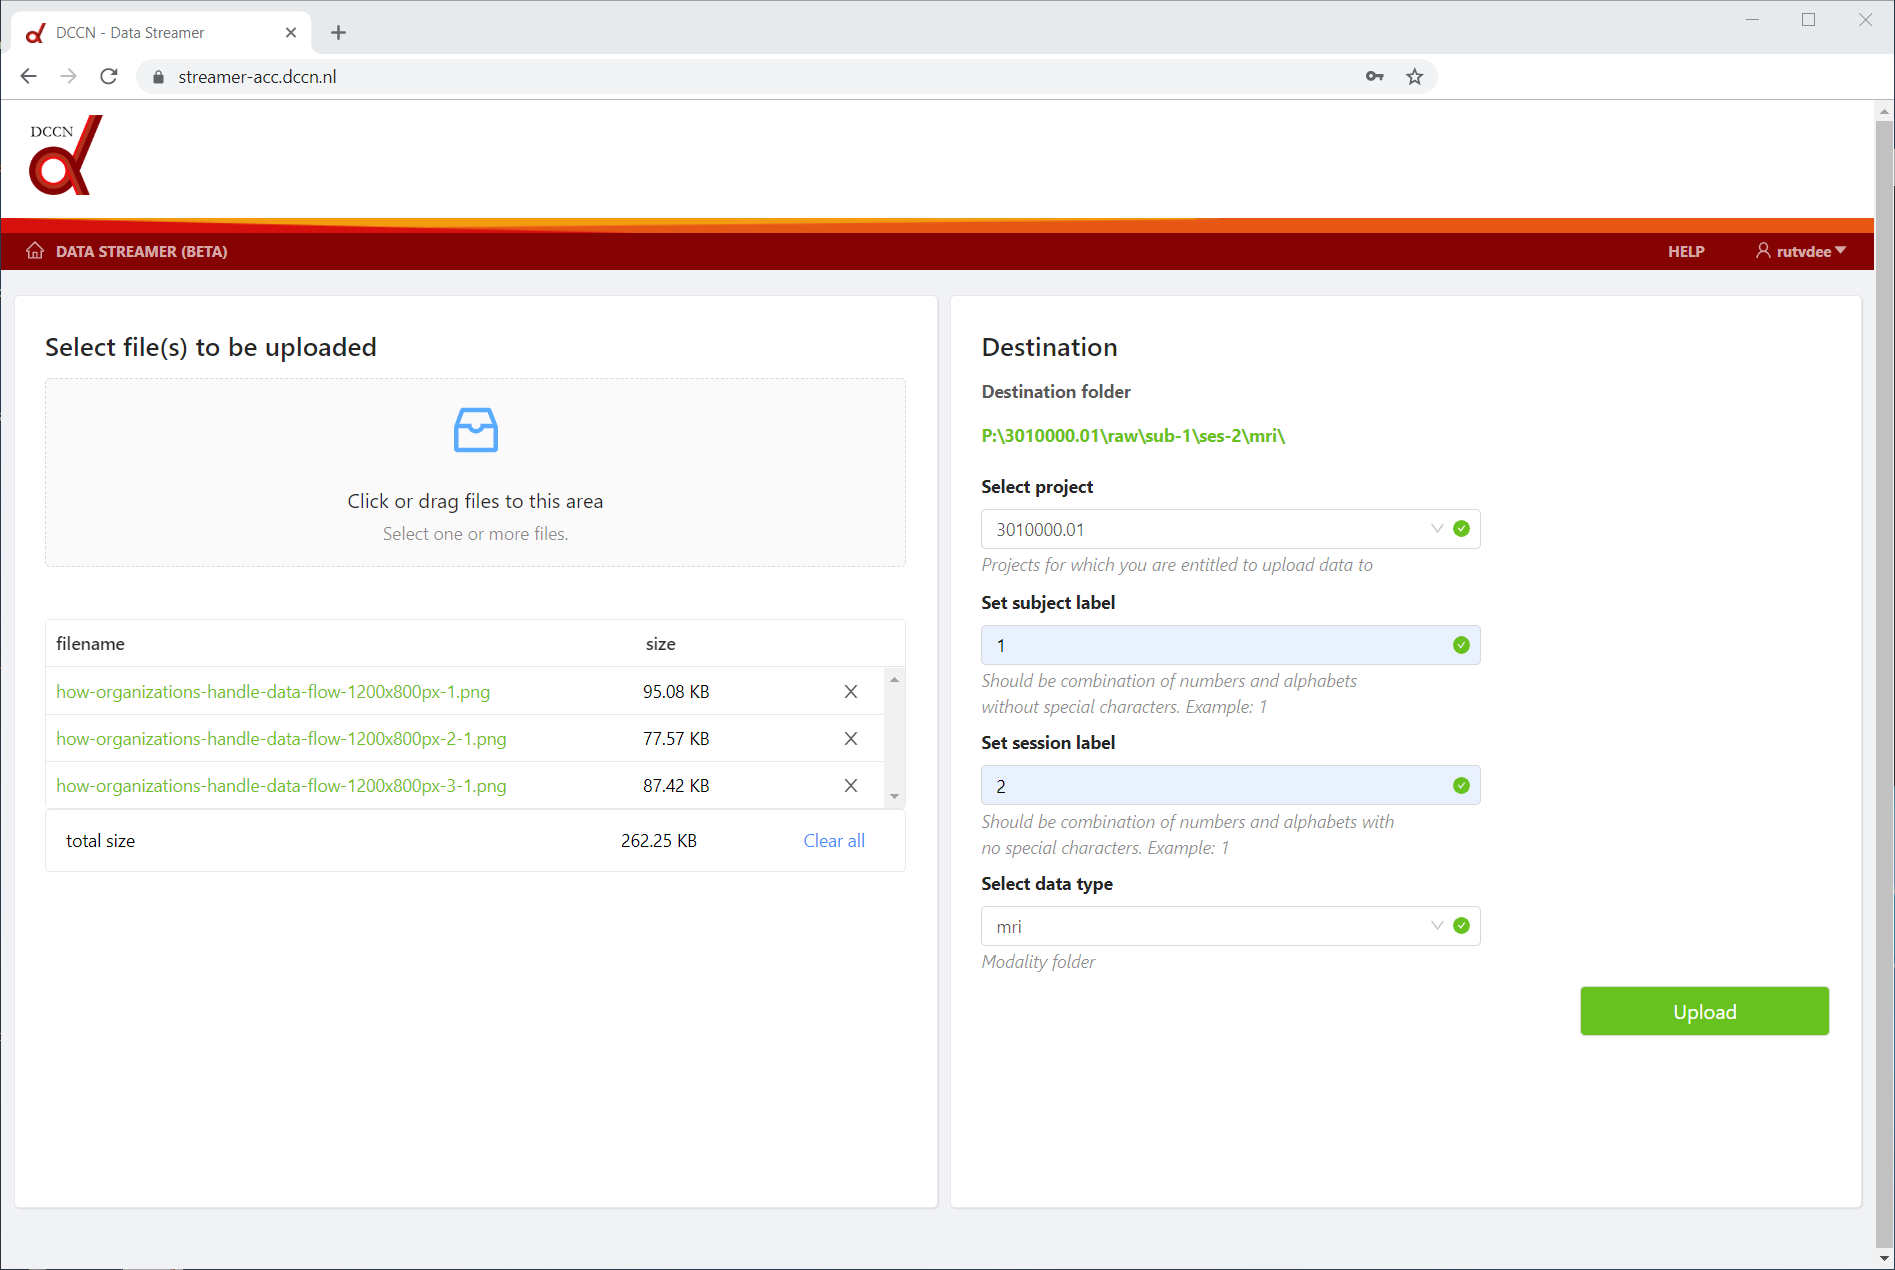
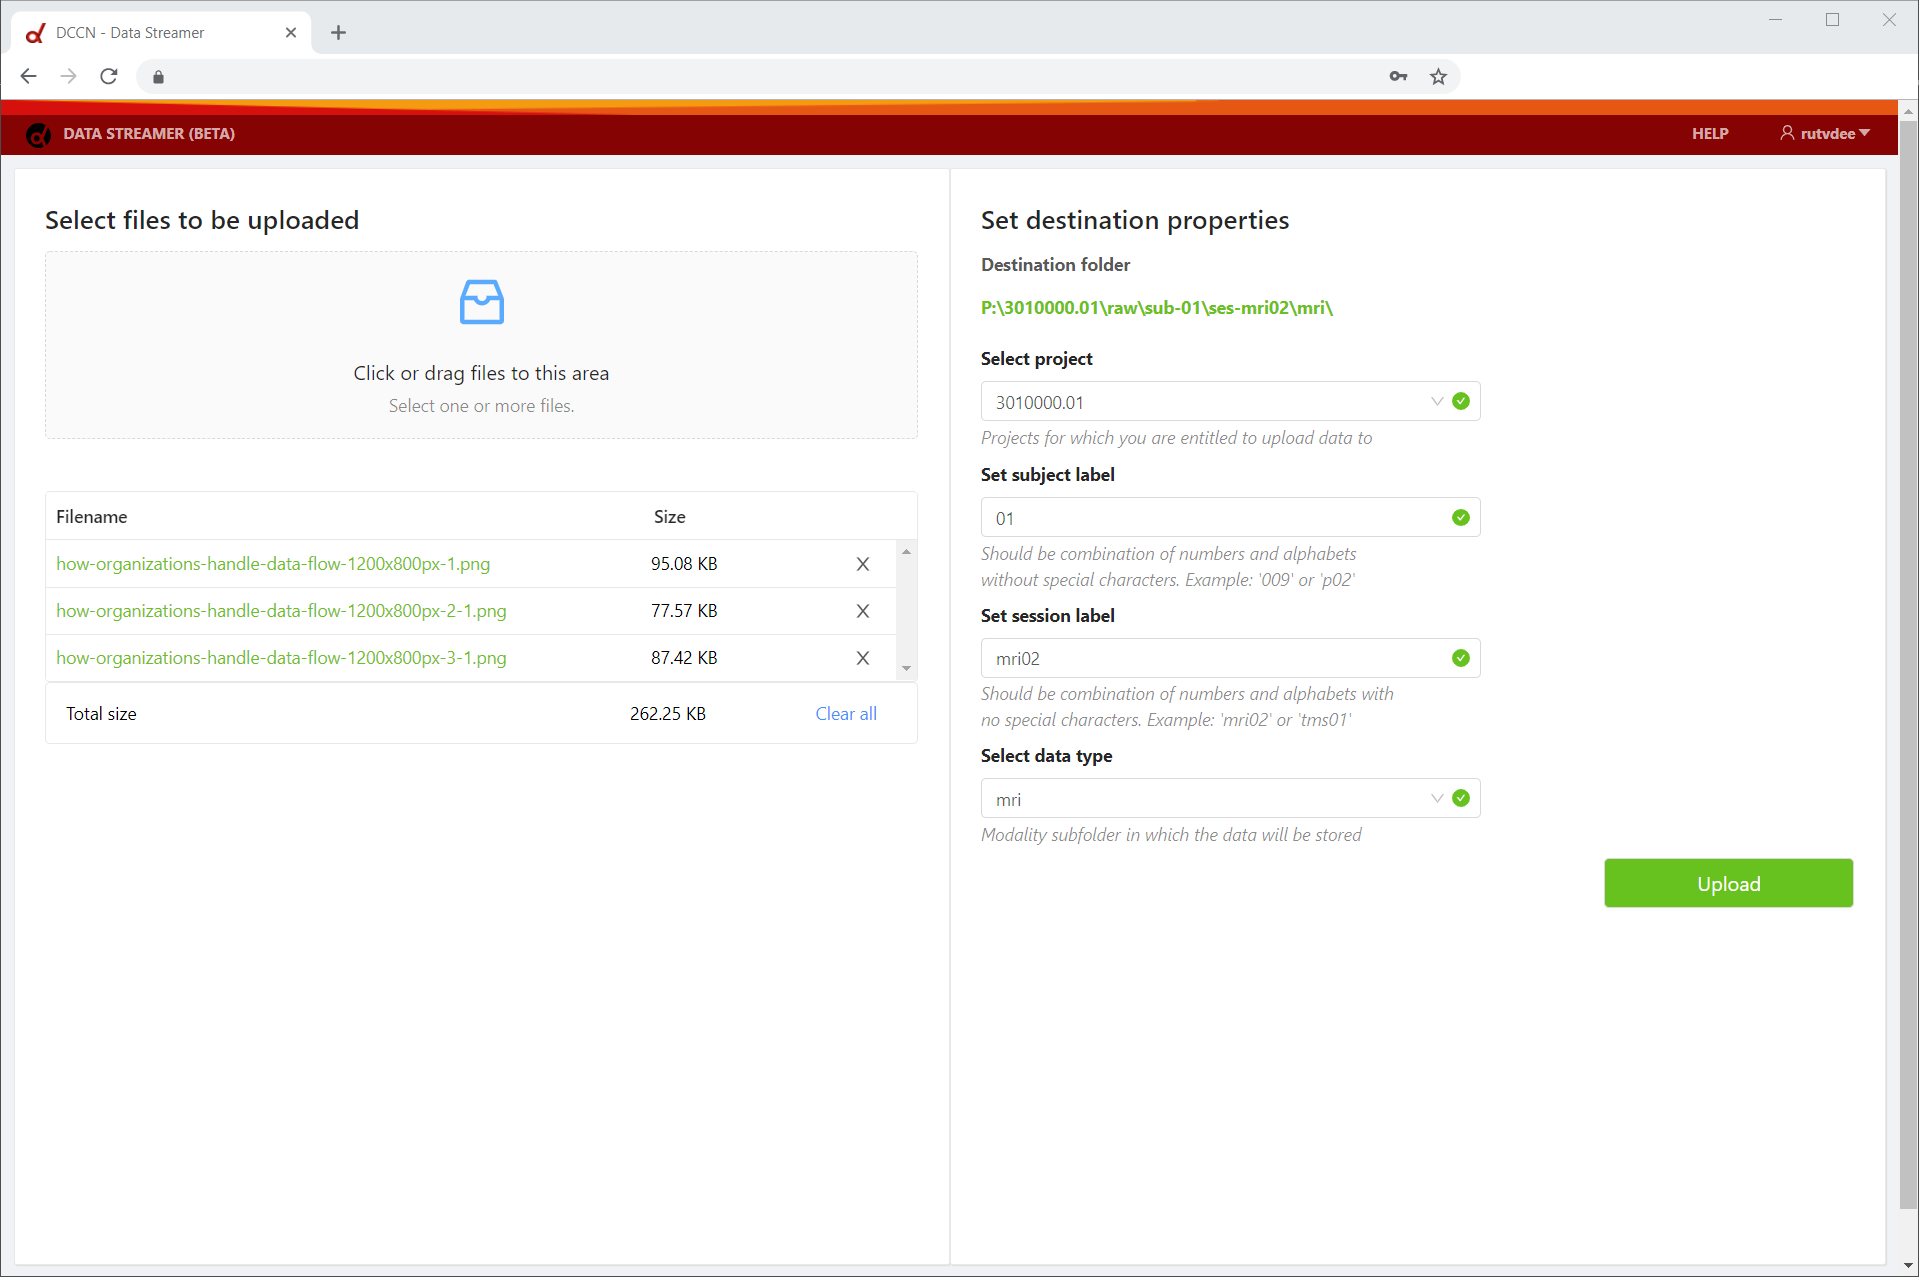
Add hader to login page; some textual improvements; add margin between main cards in uploader

diff --git a/streamer-ui/client/src/components/Login/Login.tsx b/streamer-ui/client/src/components/Login/Login.tsx
@@ -19,6 +19,8 @@ import { fetchIpAddress } from "./fetch";
 
 import { AuthContext } from "../Auth/AuthContext";
 
+import HeaderLogin from "../Header/HeaderLogin";
+
 import "../../App.less";
 import logoDCCN from "../../assets/dccn-logo.png";
 
@@ -169,72 +171,75 @@ const LoginForm: React.FC<FormComponentProps> = ({ form }) => {
             }
             {
                 !loggingIn && !hasSubmitted && !isAuthenticated &&
-                <Content className="Login">
-                    <Row type="flex" justify="center" align="middle" style={{ width: "100%" }}>
-                        <Col span={2}>
-                            {isFetchingIpAddress &&
-                                <Spin indicator={antIcon} />
-                            }
-                        </Col>
-                        <Col span={20}>
-                            <Card className="LoginCard">
-                                <div style={{ display: "flex", justifyContent: "center", margin: "0px 0px 20px 0px" }}>
-                                    <img alt="Donders Institute" src={logoDCCN} height={64} />
-                                </div>
-                                <h2 style={{ display: "flex", justifyContent: "center", margin: "0px 0px 10px 0px" }}>
-                                    DCCN Data Streamer (BETA)
-                                </h2>
-                                <h1 style={{ display: "flex", justifyContent: "center", margin: "0px 0px 20px 0px" }}>
-                                    Please login
-                                </h1>
-                                <div style={{ fontSize: "small", margin: "0px 0px 0px 0px" }}>
-                                    Enter your DCCN credentials
-                                </div>
-                                <Form className="login-form" onSubmit={handleSubmit} style={{ margin: "0px 0px 0px 0px" }}>
-                                    <Form.Item style={{ margin: "0px 0px 0px 0px" }}>
-                                        {getFieldDecorator("username", {
-                                            rules: [{ required: true, message: "Please input your DCCN username" }]
-                                        })(
-                                            <Input
-                                                prefix={<Icon type="user" style={{ color: "rgba(0,0,0,.25)" }} />}
-                                                placeholder="User name"
-                                                onChange={handleUsernameChange}
-                                            />,
-                                        )}
-                                    </Form.Item>
-                                    <Form.Item style={{ margin: "0px 0px 10px 0px" }}>
-                                        {getFieldDecorator("password", {
-                                            rules: [{ required: true, message: "Please input your password" }]
-                                        })(
-                                            <Input
-                                                prefix={<Icon type="lock" style={{ color: "rgba(0,0,0,.25)" }} />}
-                                                type="password"
-                                                placeholder="Password"
-                                                onChange={handlePasswordChange}
-                                            />,
-                                        )}
-                                    </Form.Item>
-                                    <Form.Item style={{ margin: "0px 0px 10px 0px" }}>
-                                        <Button className="login-form-button" type="primary" htmlType="submit">
-                                            Log in
-                                        </Button>
-                                    </Form.Item>
-                                    <div style={{ display: "flex", justifyContent: "center", margin: "0px 0px 0px 0px" }}>
-                                        <Tooltip title={<div
-                                        ><p>This is the login page for the data streamer. Please login with your DCCN credentials.</p>
-                                            <p>The purpose of the data streamer is to upload files to the DCCN project storage.
-                                                The source files are files from your experiments on this computer.
-                                                The destination is the correct folder on the DCCN project storage.</p>
-                                        </div>}>
-                                            <Icon type="question-circle" />
-                                        </Tooltip>
+                <Content>
+                    <HeaderLogin />
+                    <Content className="Login">
+                        <Row type="flex" justify="center" align="middle" style={{ width: "100%" }}>
+                            <Col span={2}>
+                                {isFetchingIpAddress &&
+                                    <Spin indicator={antIcon} />
+                                }
+                            </Col>
+                            <Col span={20}>
+                                <Card className="LoginCard">
+                                    <div style={{ display: "flex", justifyContent: "center", margin: "0px 0px 20px 0px" }}>
+                                        <img alt="Donders Institute" src={logoDCCN} height={64} />
                                     </div>
-                                </Form>
-                            </Card>
-                        </Col>
-                        <Col span={2}>
-                        </Col>
-                    </Row>
+                                    <h2 style={{ display: "flex", justifyContent: "center", margin: "0px 0px 10px 0px" }}>
+                                        DCCN Data Streamer (BETA)
+                                </h2>
+                                    <h1 style={{ display: "flex", justifyContent: "center", margin: "0px 0px 20px 0px" }}>
+                                        Please login
+                                </h1>
+                                    <div style={{ fontSize: "small", margin: "0px 0px 0px 0px" }}>
+                                        Enter your DCCN credentials
+                                </div>
+                                    <Form className="login-form" onSubmit={handleSubmit} style={{ margin: "0px 0px 0px 0px" }}>
+                                        <Form.Item style={{ margin: "0px 0px 0px 0px" }}>
+                                            {getFieldDecorator("username", {
+                                                rules: [{ required: true, message: "Please input your DCCN username" }]
+                                            })(
+                                                <Input
+                                                    prefix={<Icon type="user" style={{ color: "rgba(0,0,0,.25)" }} />}
+                                                    placeholder="User name"
+                                                    onChange={handleUsernameChange}
+                                                />,
+                                            )}
+                                        </Form.Item>
+                                        <Form.Item style={{ margin: "0px 0px 10px 0px" }}>
+                                            {getFieldDecorator("password", {
+                                                rules: [{ required: true, message: "Please input your password" }]
+                                            })(
+                                                <Input
+                                                    prefix={<Icon type="lock" style={{ color: "rgba(0,0,0,.25)" }} />}
+                                                    type="password"
+                                                    placeholder="Password"
+                                                    onChange={handlePasswordChange}
+                                                />,
+                                            )}
+                                        </Form.Item>
+                                        <Form.Item style={{ margin: "0px 0px 10px 0px" }}>
+                                            <Button className="login-form-button" type="primary" htmlType="submit">
+                                                Log in
+                                        </Button>
+                                        </Form.Item>
+                                        <div style={{ display: "flex", justifyContent: "center", margin: "0px 0px 0px 0px" }}>
+                                            <Tooltip title={<div
+                                            ><p>This is the login page for the data streamer. Please login with your DCCN credentials.</p>
+                                                <p>The purpose of the data streamer is to upload files to the DCCN project storage.
+                                                    The source files are files from your experiments on this computer.
+                                                The destination is the correct folder on the DCCN project storage.</p>
+                                            </div>}>
+                                                <Icon type="question-circle" />
+                                            </Tooltip>
+                                        </div>
+                                    </Form>
+                                </Card>
+                            </Col>
+                            <Col span={2}>
+                            </Col>
+                        </Row>
+                    </Content>
                 </Content>
             }
         </div>

diff --git a/streamer-ui/client/src/components/Header/HeaderLogin.tsx b/streamer-ui/client/src/components/Header/HeaderLogin.tsx
@@ -1,0 +1,42 @@
+import React from "react";
+import { Link } from "react-router-dom";
+import { Layout, Row, Col, Icon, Menu, Button, Modal, Tooltip } from "antd";
+
+
+import "../../App.less";
+
+import logoDCCN from "../../assets/donders-logo.svg";
+
+const HeaderLogin: React.FC = () => {
+    return (
+        <Layout>
+            <div>
+                <Layout>
+                    <Layout.Header className="App-header-top"></Layout.Header>
+                </Layout>
+                <Layout>
+                    <Layout.Header className="App-header">
+                        <Row type="flex" justify="space-between">
+                            <Col>
+                                <Menu
+                                    className="App-header-menu"
+                                    theme="dark"
+                                    mode="horizontal"
+                                    selectedKeys={[]}
+                                >
+                                    <Menu.Item key="NAV_HOME" style={{ float: "left", margin: "0px 0px 0px 0px" }}>
+                                        <img alt="Donders Institute" src={logoDCCN} style={{ height: "20px", marginRight: "10px" }} />DATA STREAMER (BETA)
+                                    </Menu.Item>
+                                </Menu>
+                            </Col>
+                            <Col>
+                            </Col>
+                        </Row>
+                    </Layout.Header>
+                </Layout>
+            </div>
+        </Layout >
+    );
+};
+
+export default HeaderLogin;

diff --git a/streamer-ui/client/src/components/Uploader/StructureSelector.tsx b/streamer-ui/client/src/components/Uploader/StructureSelector.tsx
@@ -82,8 +82,8 @@ const StructureSelectorForm: React.FC<IProps & FormComponentProps> = (
     }) => {
     const { getFieldDecorator } = form;
 
-    const projectNumberOption: SelectOption = { key: (projectNumber ? projectNumber : "") };
-    const dataTypeOption: SelectOption = { key: (dataType ? dataType : "") };
+    const projectNumberOption: SelectOption = { key: (projectNumber ? projectNumber : "projectnumber") };
+    const dataTypeOption: SelectOption = { key: (dataType ? dataType : "datatype") };
 
     const optionsProjects = projectList!.map((project, key) => (
         <Option value={project.number} key={key}>{project.number}</Option>
@@ -127,7 +127,6 @@ const StructureSelectorForm: React.FC<IProps & FormComponentProps> = (
                         <Select
                             labelInValue
                             defaultValue={projectNumberOption}
-                            placeholder="Select project"
                             onSelect={handleSelectProjectValue}
                             style={{ width: "400px" }}
                         >
@@ -203,7 +202,6 @@ const StructureSelectorForm: React.FC<IProps & FormComponentProps> = (
                         <Select
                             labelInValue
                             defaultValue={dataTypeOption}
-                            placeholder="Select data type"
                             onSelect={handleSelectDataTypeValue}
                             style={{ width: "400px" }}
                             disabled={!isSelectedProject}

diff --git a/streamer-ui/client/src/components/Header/Header.tsx b/streamer-ui/client/src/components/Header/Header.tsx
@@ -78,33 +78,11 @@ const Header: React.FC = () => {
     return (
         <Layout>
             <div>
-                {/* <Layout>
-                    <Layout.Header
-                        style={{
-                            backgroundColor: "#fff",
-                            padding: "10px 20px 10px 20px",
-                            height: "94px"
-                        }}
-                    >
-                        <Row type="flex" justify="space-between">
-                            <Col>
-                                <Link to="/"><img alt="Donders Institute" src={logoDCCN} height={64} /></Link>
-                            </Col>
-                            <Col></Col>
-                        </Row>
-                    </Layout.Header>
-                </Layout> */}
                 <Layout>
-                    <Layout.Header
-                        className="App-header-top"
-                        style={{ padding: "0 0px", height: "12px" }}
-                    ></Layout.Header>
+                    <Layout.Header className="App-header-top"></Layout.Header>
                 </Layout>
                 <Layout>
-                    <Layout.Header
-                        className="App-header"
-                        style={{ padding: "0px 0px 0px 0px", height: "32px" }}
-                    >
+                    <Layout.Header className="App-header">
                         <Row type="flex" justify="space-between">
                             <Col>
                                 <Menu

diff --git a/streamer-ui/client/src/App.less b/streamer-ui/client/src/App.less
@@ -25,32 +25,19 @@ body {
 
 .App-header-top {
   background: #f45709 url("./assets/gradient-bar-top.png") 0 0 no-repeat;
+  padding: 0px 0px 0px 0px;
+  height: 10px;
 }
 
 .App-header {
   background: @donders-dark-red;
-  line-height: 30px;
-
-  .App-header-logo {
-    width: 37px;
-    height: 37px;
-    background-image: url(./assets/DONDERS_D_RGB_small.png);
-    background-size: contain;
-    background-repeat: no-repeat;
-    // background-color: @primary-1;
-    border-radius: 100%;
-    border-width: 0px 5px 0px;
-    border-style: solid;
-    // border-color: @primary-1;
-    margin: 13px 28px 13px 0;
-    float: left;
-  }
+  padding: 0px 0px 0px 0px;
+  height: 48px;
 
   .App-header-menu {
-    background-color: inherit;
-    line-height: 30px;
-    font-weight: bold;
-    font-size: 12px;
+      background-color: inherit;
+      text-align: center;
+      font-weight: bold;
   }
 }
 
@@ -58,7 +45,7 @@ body {
   border-radius: 4;
   box-shadow: 1px 1px 1px #ddd;
   min-height: 730px;
-  height: calc(~"100vh - 64px");
+  height: calc(~"100vh - 80px");
 }
 
 ant-menu-item {

diff --git a/streamer-ui/client/src/components/Uploader/Uploader.tsx b/streamer-ui/client/src/components/Uploader/Uploader.tsx
@@ -456,7 +456,7 @@ const Uploader: React.FC = () => {
                 <div style={{ padding: "10px" }}>
                     <Row>
                         <Col span={12}>
-                            <Card className="MainCard">
+                            <Card className="MainCard" style={{ marginRight: "5px" }}>
                                 <FileSelector
                                     fileList={uploaderContext!.fileList}
                                     fileListSummary={uploaderContext!.fileListSummary}
@@ -478,7 +478,7 @@ const Uploader: React.FC = () => {
                             </Card>
                         </Col>
                         <Col span={12}>
-                            <Card className="MainCard">
+                            <Card className="MainCard" style={{ marginLeft: "5px" }}>
                                 <h2>Set destination properties</h2>
                                 <Content style={{ marginTop: "10px" }}>
                                     <p style={{ fontWeight: "bold" }}>Destination folder</p>

diff --git a/streamer-ui/client/src/components/Uploader/FileList.tsx b/streamer-ui/client/src/components/Uploader/FileList.tsx
@@ -29,7 +29,7 @@ const FileList: React.FC<IProps> = ({ fileList, fileListSummary, hasFilesSelecte
 
     const columnsFileList = [
         {
-            title: "Filename",
+            title: "Selected Files",
             dataIndex: "name",
             key: "name",
             width: "70%",
